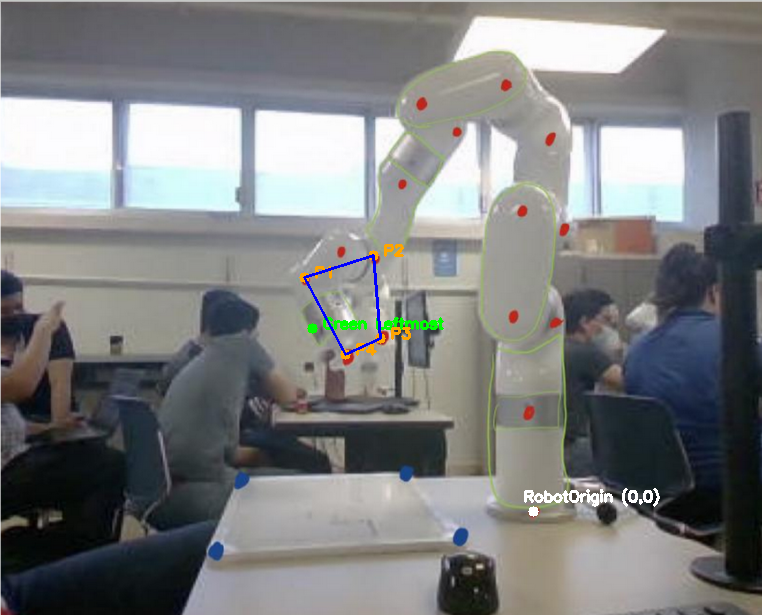
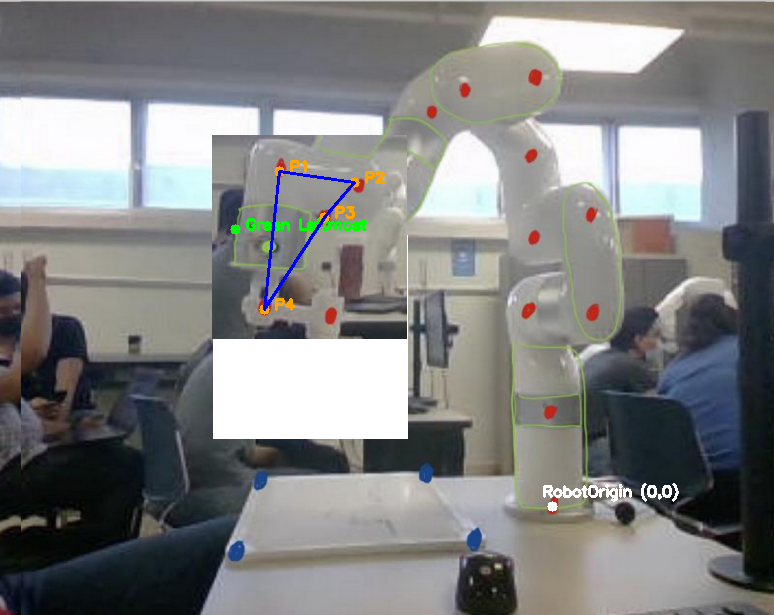
sam_cv working

diff --git a/sam_cv.py b/sam_cv.py
@@ -1,0 +1,198 @@
+import cv2
+import numpy as np
+import tkinter as tk
+from tkinter import filedialog
+import math
+from itertools import combinations
+
+# Hide the main Tk window
+root = tk.Tk()
+root.withdraw()
+
+def load_image(dialog=False):
+    if not dialog:
+        return cv2.imread("imagen1.png")
+
+    # Open file dialog for the user to select an image
+    file_path = filedialog.askopenfilename(
+        title="Select an image",
+        filetypes=[("Image files", "*.jpg *.jpeg *.png *.bmp")]
+    )
+    if not file_path:
+        print("No file selected.")
+        return None
+
+    # Load the image
+    image = cv2.imread(file_path)
+    return image
+
+def get_contour_pos(contour):
+    x, y, w, h = cv2.boundingRect(contour)
+    center = (int(x + w / 2), int(y + h / 2))
+    return center
+
+def get_n_closest_points(reference, points, n):
+    def distance(pt):
+        return ((pt[0] - reference[0])**2 + (pt[1] - reference[1])**2)**0.5
+    return sorted(points, key=distance)[:n]
+
+def angle_between(p1, p2, p3):
+    """
+    Returns the angle at p2 (in degrees) formed by points p1, p2, p3.
+    """
+    # Create vectors
+    v1 = (p1[0] - p2[0], p1[1] - p2[1])
+    v2 = (p3[0] - p2[0], p3[1] - p2[1])
+    # Calculate dot product and magnitudes
+    dot = v1[0] * v2[0] + v1[1] * v2[1]
+    mag1 = math.hypot(*v1)
+    mag2 = math.hypot(*v2)
+    if mag1 == 0 or mag2 == 0:
+        return 0
+    # Calculate angle in degrees and return
+    angle = math.degrees(math.acos(dot / (mag1 * mag2)))
+    return angle
+
+def order_points(pts):
+    """
+    Returns the points ordered clockwise based on the centroid.
+    """
+    pts = list(pts)
+    # Calculate centroid
+    centroid = (sum(p[0] for p in pts) / len(pts), sum(p[1] for p in pts) / len(pts))
+    # Sort points by angle from centroid
+    pts.sort(key=lambda p: math.atan2(p[1] - centroid[1], p[0] - centroid[0]))
+    return pts
+
+def find_best_quadrilateral(points):
+    """
+    Among all 4-point combinations from 'points', selects the quadrilateral 
+    whose interior angles are closest to 90 degrees.
+    
+    Returns:
+        best_quad (list): List of 4 points ordered clockwise, or None if no combination.
+    """
+    best_quad = None
+    best_error = float('inf')
+    # Iterate over all combinations of 4 points.
+    for quad in combinations(points, 4):
+        ordered = order_points(quad)
+        error = 0
+        # Sum the absolute difference from 90 degrees for each interior angle.
+        for i in range(4):
+            p_prev = ordered[i - 1]
+            p_curr = ordered[i]
+            p_next = ordered[(i + 1) % 4]
+            angle = angle_between(p_prev, p_curr, p_next)
+            error += abs(angle - 90)
+        if error < best_error:
+            best_error = error
+            best_quad = ordered
+    return best_quad
+
+def order_corners(pts):
+    if len(pts) != 4:
+        raise ValueError("Exactly 4 points are required.")
+    # Sort points by y coordinate (to separate top and bottom)
+    pts_sorted_by_y = sorted(pts, key=lambda p: p[1])
+    # The first two are the top points
+    top_pts = sorted(pts_sorted_by_y[:2], key=lambda p: p[0])
+    # The last two are the bottom points
+    bottom_pts = sorted(pts_sorted_by_y[2:], key=lambda p: p[0], reverse=True)
+    return [top_pts[0], top_pts[1], bottom_pts[0], bottom_pts[1]]
+
+def get_end_eff(end_eff_norm, base_norm):
+    def normalize(point):
+        x, y = point
+        norm_x = x / 0.38
+        norm_y = y / 0.26
+        return (norm_x, norm_y)
+
+    def denormalize(point):
+        x, y = point
+        denorm_x = x * -60
+        denorm_y = y * -40 + 51
+        return (denorm_x, denorm_y)
+
+    # Compute the absolute difference between the two points
+    end_eff_norm = (abs(end_eff_norm[0] - base_norm[0]),
+                    abs(end_eff_norm[1] - base_norm[1]))
+
+    # Normalize the resulting point (using the helper defined earlier)
+    norm_end_eff = normalize(end_eff_norm)
+
+    # Denormalize the normalized point
+    denorm_end_eff = denormalize(norm_end_eff)
+
+    # Set posY and posZ using the translated values
+    posY = float(denorm_end_eff[0])
+    posZ = float(denorm_end_eff[1])
+    return (0, posY, posZ)
+
+# Call the function to load the image
+image = load_image(dialog=True)
+if image is None:
+    exit()
+
+# Convert the image to HSV color space
+hsv_image = cv2.cvtColor(image, cv2.COLOR_BGR2HSV)
+
+# Define the HSV bounds
+red_hsv_bounds  = ((0, 204, 171), (7, 231, 205))
+green_hsv_bounds = ((42, 99, 181),(44, 154, 192))
+
+# Create masks for red and green areas
+mask_green = cv2.inRange(hsv_image, np.array(green_hsv_bounds[0], dtype="uint8"), np.array(green_hsv_bounds[1], dtype="uint8"))
+mask_red = cv2.inRange(hsv_image, np.array(red_hsv_bounds[0], dtype="uint8"), np.array(red_hsv_bounds[1], dtype="uint8"))
+
+# Find contours for both masks (external contours only)
+contours_green, _ = cv2.findContours(mask_green, cv2.RETR_EXTERNAL, cv2.CHAIN_APPROX_SIMPLE)
+contours_red, _ = cv2.findContours(mask_red, cv2.RETR_EXTERNAL, cv2.CHAIN_APPROX_SIMPLE)
+
+# Get dots from contours
+green_dot = get_contour_pos(max(contours_green, key=cv2.contourArea, default=None))
+red_dots = [get_contour_pos(cnt) for cnt in contours_red if cv2.contourArea(cnt) >= 1]
+
+# Filter dots
+base_dot = max(red_dots, key=lambda p: p[0] + p[1])
+red_dots = get_n_closest_points(green_dot, red_dots, 5)
+red_dots = find_best_quadrilateral(red_dots)
+red_dots = order_corners(red_dots)
+
+# Show the green dot
+if green_dot is not None:
+    cv2.drawMarker(image, green_dot, (0, 0, 255), markerType=cv2.MARKER_CROSS, markerSize=20, thickness=2)
+    print(f"Green dot at: {green_dot}")
+
+# Show the base point
+if base_dot is not None:
+    cv2.drawMarker(image, base_dot, (0, 255, 0), markerType=cv2.MARKER_CROSS, markerSize=20, thickness=2)
+    print(f"Base dot at: {base_dot}")
+
+# Show red dots
+for i, red_dot in enumerate(red_dots):
+    # cv2.drawMarker(image, red_dot, (0, 0, 0), markerType=cv2.MARKER_CROSS, markerSize=20, thickness=2)
+    cv2.putText(image, str(i+1), red_dot, cv2.FONT_HERSHEY_SIMPLEX, 0.5, (255, 0, 0), 2)
+    print(f"Red dot #{i} at: {red_dot}")
+
+# Display the original image with drawn circles, the green mask, and the red mask
+cv2.imshow("Original Image with markers", image)
+
+# Normalize the points from 0 to 1
+base_dot = (base_dot[0] / image.shape[1], base_dot[1] / image.shape[0])
+red_dots = [(dot[0] / image.shape[1], dot[1] / image.shape[0]) for dot in red_dots]
+green_dot = (green_dot[0] / image.shape[1], green_dot[1] / image.shape[0])
+
+# Get the end effector position
+end_effector = get_end_eff(green_dot, base_dot)
+print(f"End effector position: {end_effector}")
+
+# Write each coord to a line in end_eff.txt
+with open("end_eff.txt", "w") as f:
+    f.write(f"{end_effector[0]}\n")
+    f.write(f"{end_effector[1]}\n")
+    f.write(f"{end_effector[2]}\n")
+
+print("Press any key on one of the image windows to exit.")
+cv2.waitKey(0)
+cv2.destroyAllWindows()

diff --git a/cv.py b/cv.py
@@ -2,9 +2,17 @@ import cv2
 import numpy as np
 import math
 from scipy.spatial import distance
+from tkinter import Tk
+from tkinter.filedialog import askopenfilename
+
+# Abrir un cuadro de diálogo para seleccionar la imagen
+Tk().withdraw()  # Ocultar la ventana principal de Tkinter
+image_path = askopenfilename(title="Selecciona una imagen", filetypes=[("Imagenes", "*.png;*.jpg;*.jpeg")])
+if not image_path:
+    raise Exception("No se seleccionó ninguna imagen.")
 
 # Cargar la imagen
-image = cv2.imread("imagen1.png")
+image = cv2.imread(image_path)
 if image is None:
     raise Exception("Error al cargar la imagen. Verifica la ruta y el nombre del archivo.")
 
